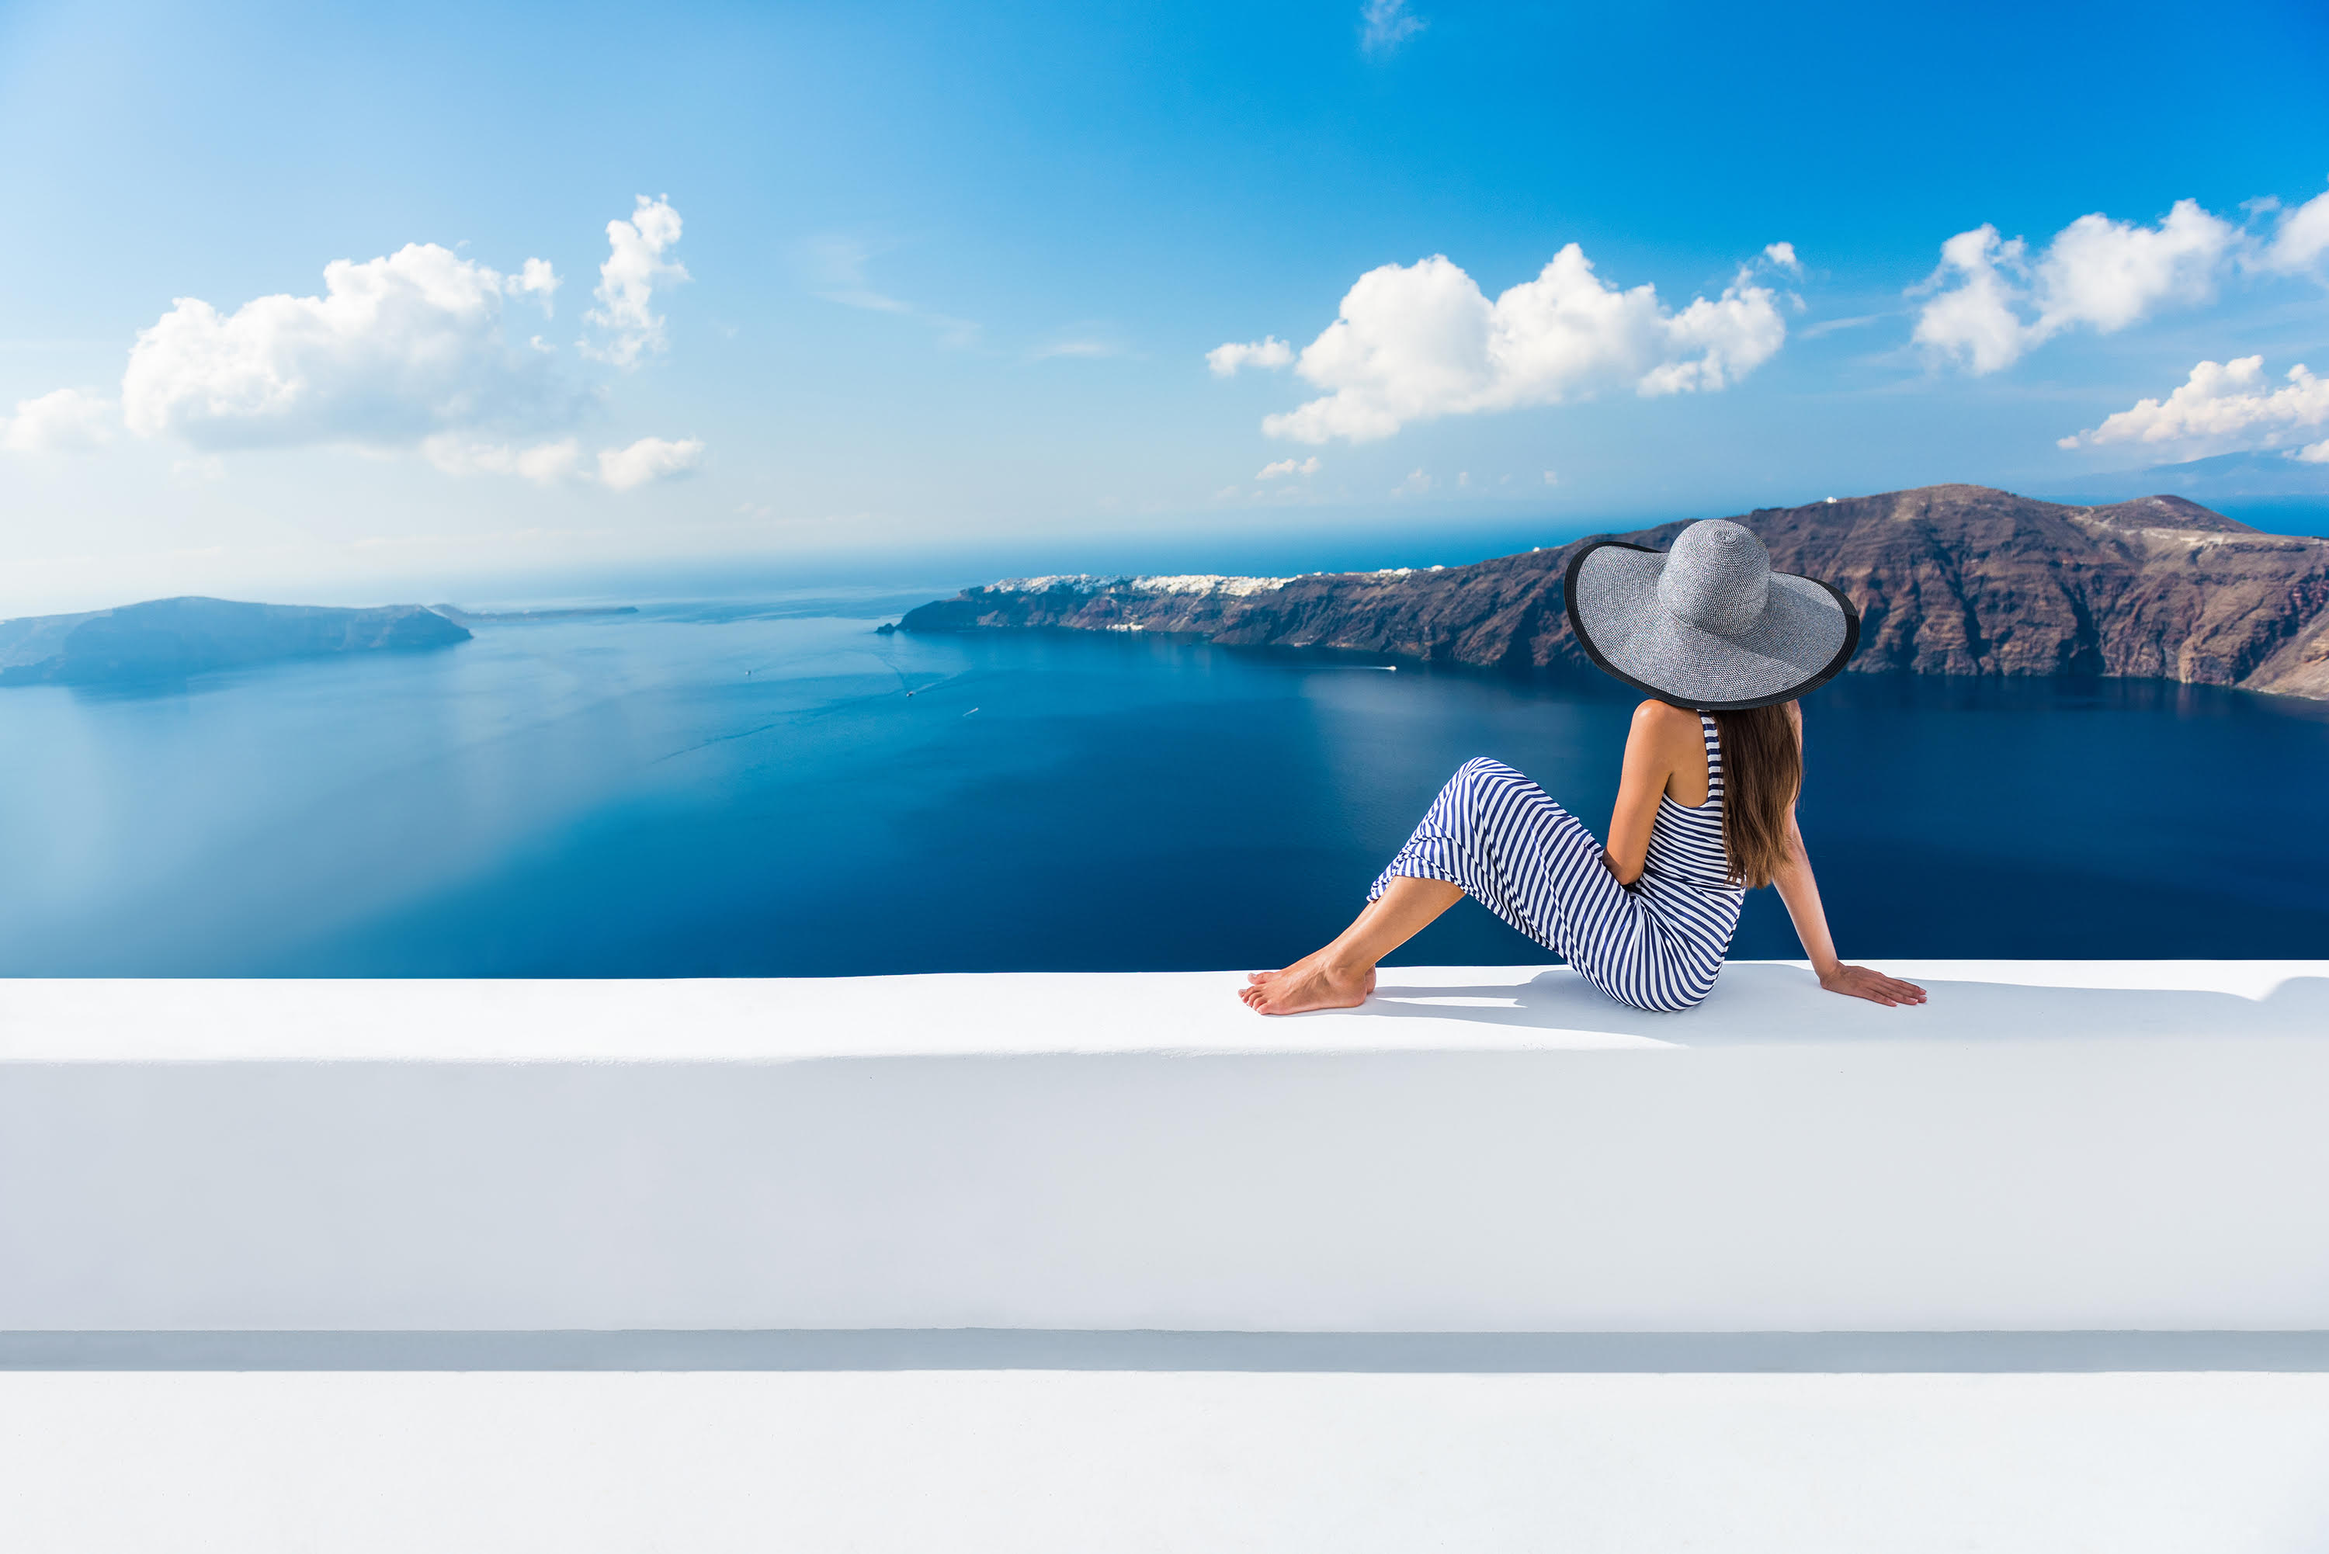
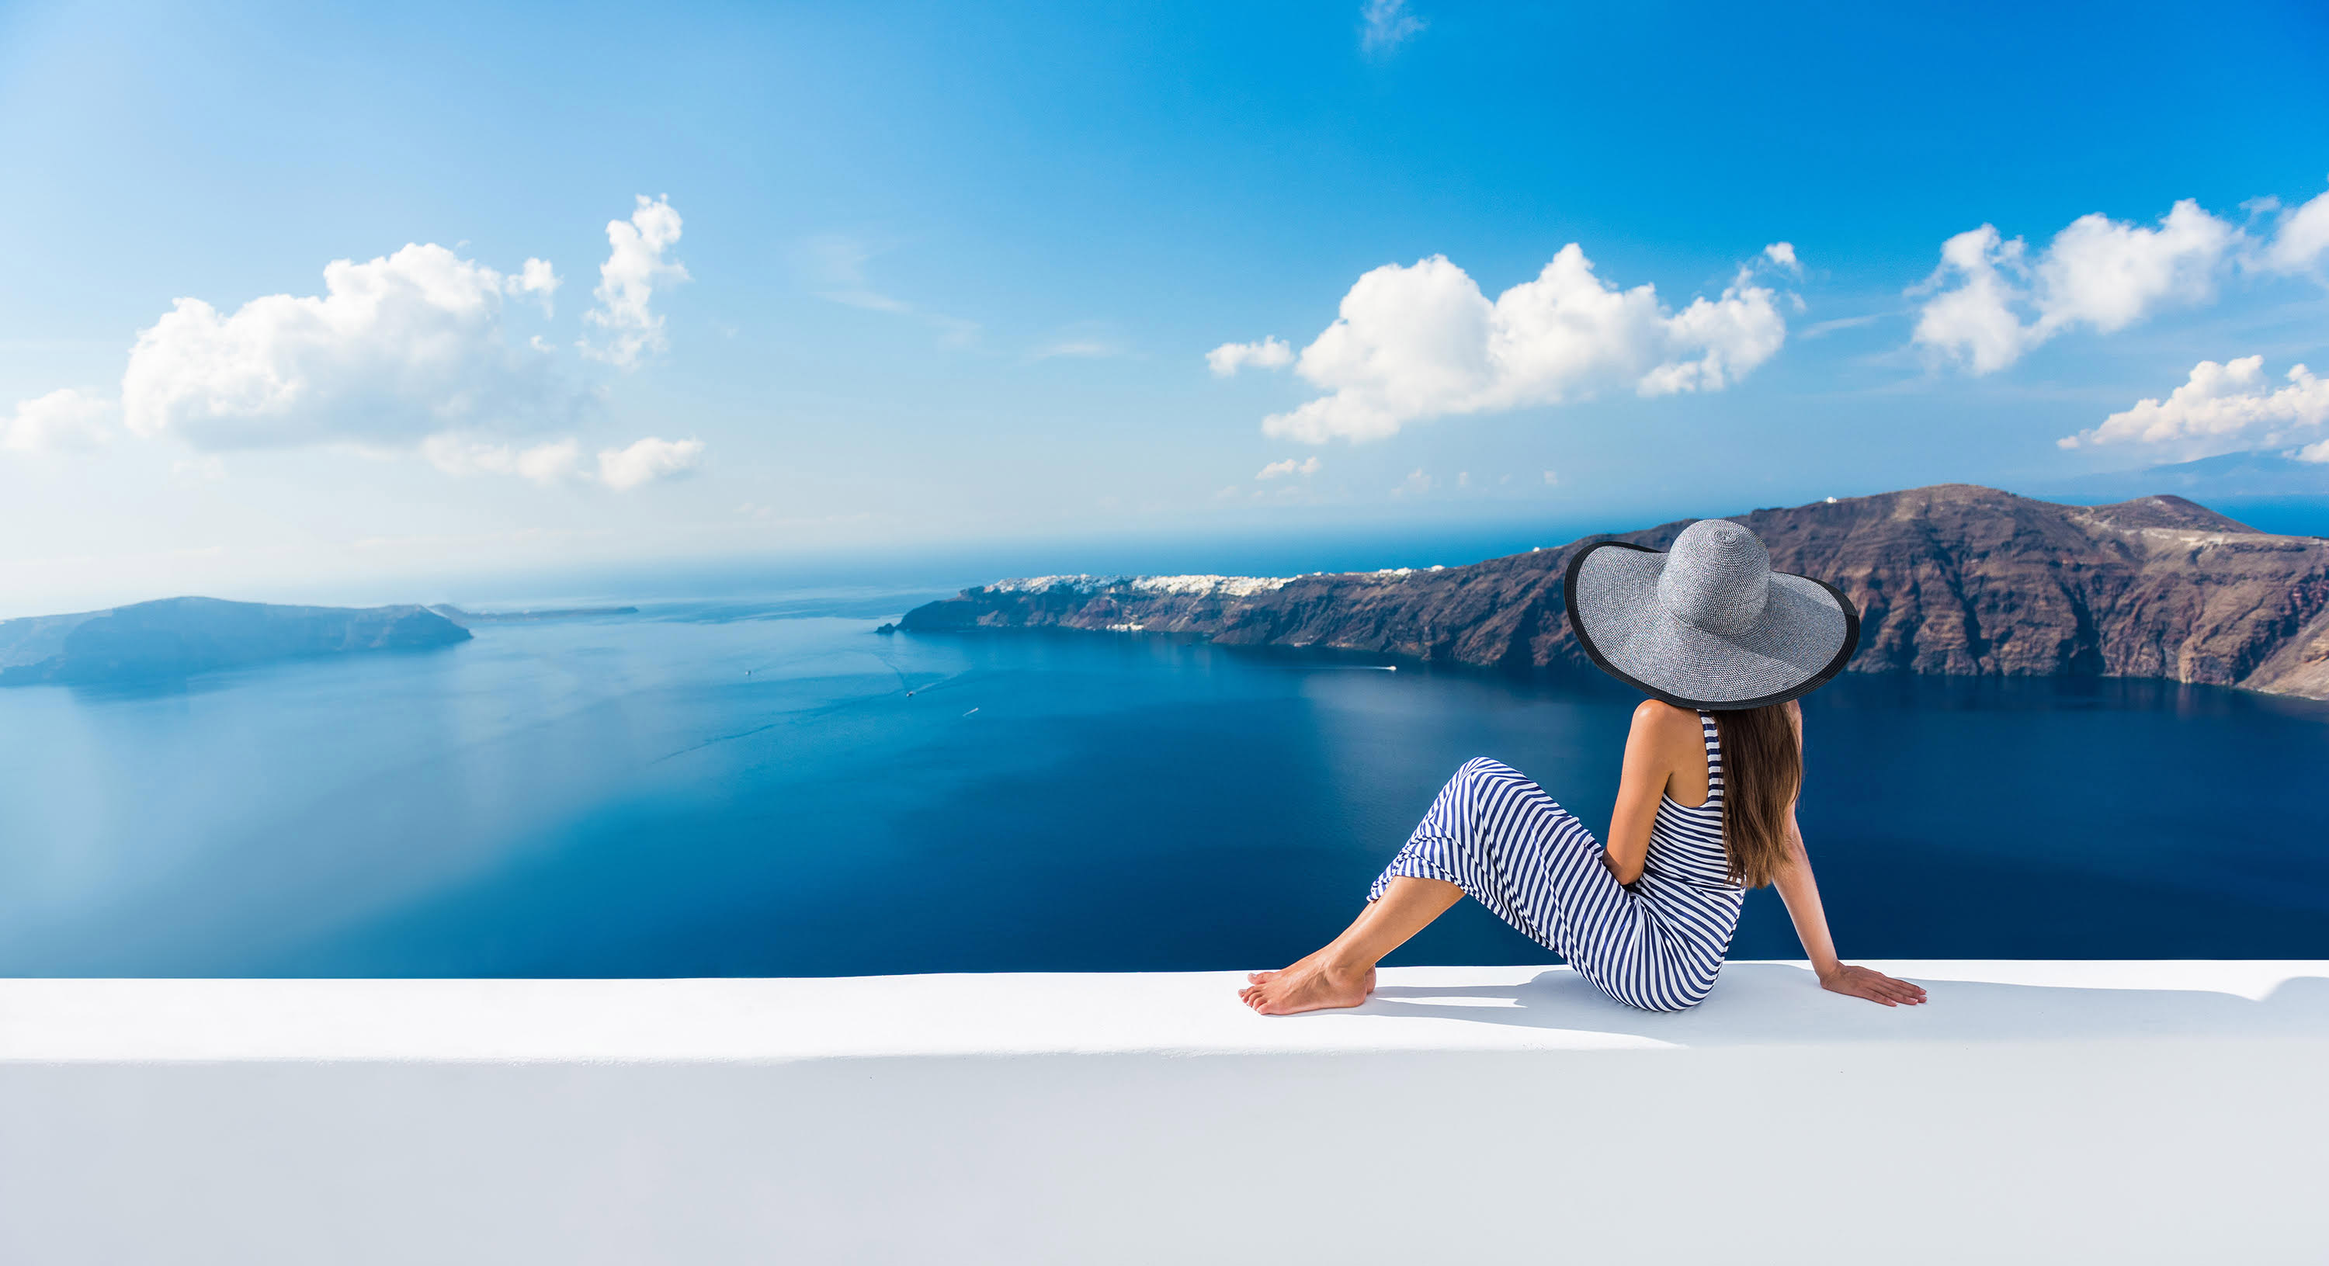
hero panel updates

diff --git a/assets/styles/main.scss b/assets/styles/main.scss
@@ -253,17 +253,30 @@ nav.mobile-nav.open{
 
 .banner {
   width: 100%;
-  height: 80vh;
+  height: 95vh;
   padding-top: 15vh;
-  background: linear-gradient(
-    rgba(11, 31, 89, 0.1),
-    rgba(1, 1, 1, 1)
-    ),
-    url(/dist/images/bg.jpg) bottom;
+  background: transparent url(/dist/images/bg.jpg);
   background-attachment: fixed;
-  background-position: center top;
+  background-position: -10px 0;
   background-repeat: no-repeat;
   background-size: cover;
+
+  @include media-breakpoint-down(lg) {
+    background-position: -200px 0;
+  }
+
+  @include media-breakpoint-down(xs) {
+    background-position: -545px 0;
+  }
+
+  .landing.text-container {
+    padding: 1em;
+    background: rgba(7, 44, 79, 0.38);
+  }
+
+  h1, p {
+    color: #fff;
+  }
 
   .logo-img {
     display: block;
@@ -272,32 +285,30 @@ nav.mobile-nav.open{
       width: 50%;
     }
   }
-}
 
-.whitepaper-download{
-  width: 100%;
+  // h1 {
+  //   text-shadow: 3px 2px 3px #d3dee4;
+  //   color: #0a3255;
+  // }
+
+  // p.intro {
+  //   color: #0a3255;
+  // }
 }
 
 .whitepaper-download a {
-  width: 200px;
-  height: 100px;
-  line-height: 100px;
   font-size: 1em;
   font-family: 'PlayfairDisplay-Regular', serif;
   color: #ddd;
   padding: 10px 15px;
   letter-spacing:1px;
   background-color:#c69c2b;
+  display: inline-block;
+  margin: 0;
 }
 
 .whitepaper-download a:hover {
   border-color: #fff;
-}
-
-
-
-#tokensale p.whitepaper-download a{
-
 }
 
 #arrow-down {
@@ -577,16 +588,6 @@ nav.mobile-nav.open{
   clear: both;
 }
 
-.landing{
-  padding-left: 2em;
-}
-.landing h1 {
-  font-size:2em;
-  color:#c69c2b;
-}
-.landing p {
-  width:100%;
-}
 #team h4, h6{
   color: #eff;
 }

diff --git a/themes/aditus/layouts/index.html b/themes/aditus/layouts/index.html
@@ -11,10 +11,10 @@
             </a>
           </div>
         </div>-->
-        <div class='col-lg-9'>
+        <div class='col-lg-7'>
           <div class="landing text-container">
             <h1>Luxury Access Platform for Crypto-Affluents</h1>
-              <p>Aditus is a revolutionary new platform bringing the world of luxury to crypto-affluents. Using a uniquely decentralised network, Aditus grants access to all aspects of the luxury lifestyle while guaranteeing privacy. Token Sales will begin in November 2017.</p>
+              <p class='intro'>Aditus is a revolutionary new platform bringing the world of luxury to crypto-affluents, through a privacy-centric decentralised network utilising smart contracts and blockchain technology.</p>
               <p class="whitepaper-download">
                 <a href="/Aditus-Whitepaper.pdf">Download Whitepaper</a>
               </p>

diff --git a/themes/aditus/layouts/_default/baseof.html b/themes/aditus/layouts/_default/baseof.html
@@ -13,7 +13,8 @@
     <meta name="description" content="">
     <link href="https://fonts.googleapis.com/css?family=Playfair+Display" rel="stylesheet">
     <link href="https://fonts.googleapis.com/css?family=Raleway" rel="stylesheet">
-    <link rel='stylesheet' href='/dist/styles/main.css?v=2017103104' media='all' />
+    <link href="https://fonts.googleapis.com/css?family=Open+Sans" rel="stylesheet">
+    <link rel='stylesheet' href='/dist/styles/main.css?v=2017110101' media='all' />
 
     <script async src="https://www.googletagmanager.com/gtag/js?id=UA-108637916-1"></script>
     <script>

diff --git a/assets/styles/_bootstrap-variables.scss b/assets/styles/_bootstrap-variables.scss
@@ -1,3 +1,11 @@
+$grid-breakpoints: (
+  xs: 0,
+  sm: 475px,
+  md: 768px,
+  lg: 992px,
+  xl: 1200px
+);
+
 $spacer:   1.2em;
 $spacer-x: $spacer;
 $spacer-y: $spacer;
@@ -7,7 +15,7 @@ $body-color: #eff;
 
 $primary: #26424c;
 
-$font-family-sans-serif: 'Josefin Sans', sans-serif;
+$font-family-sans-serif: 'Open Sans', sans-serif;
 
 $headings-color: #c69c2b;
 $headings-font-family: 'Playfair Display', serif;
